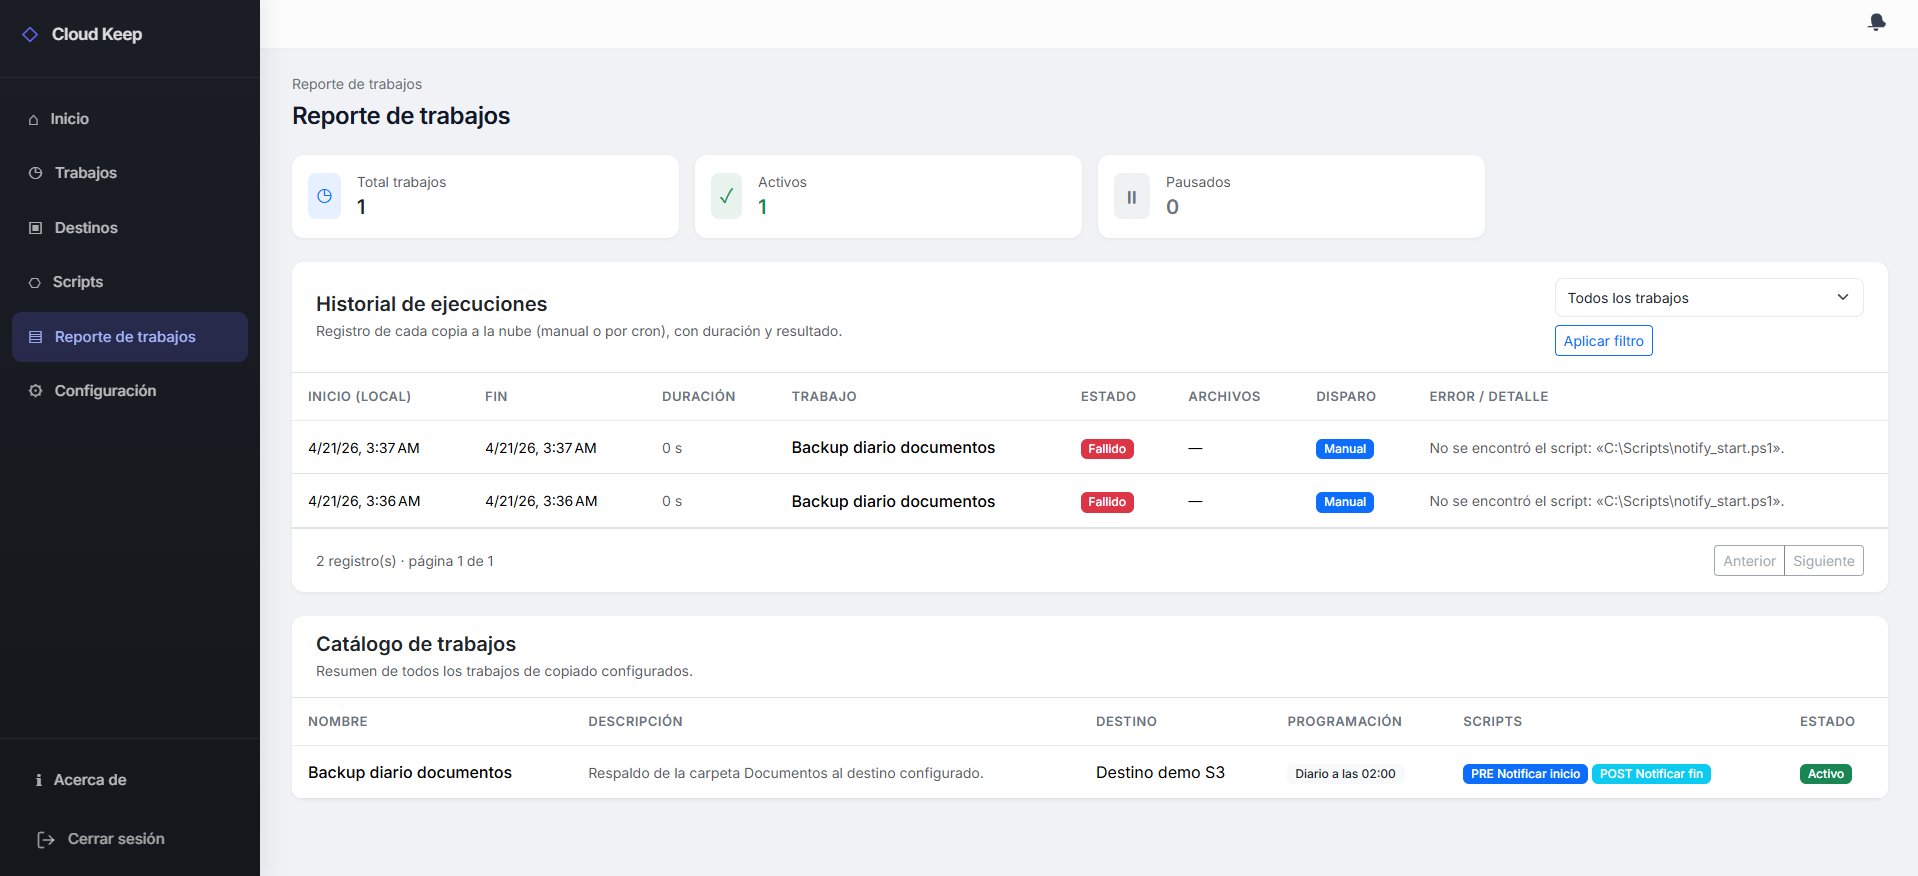
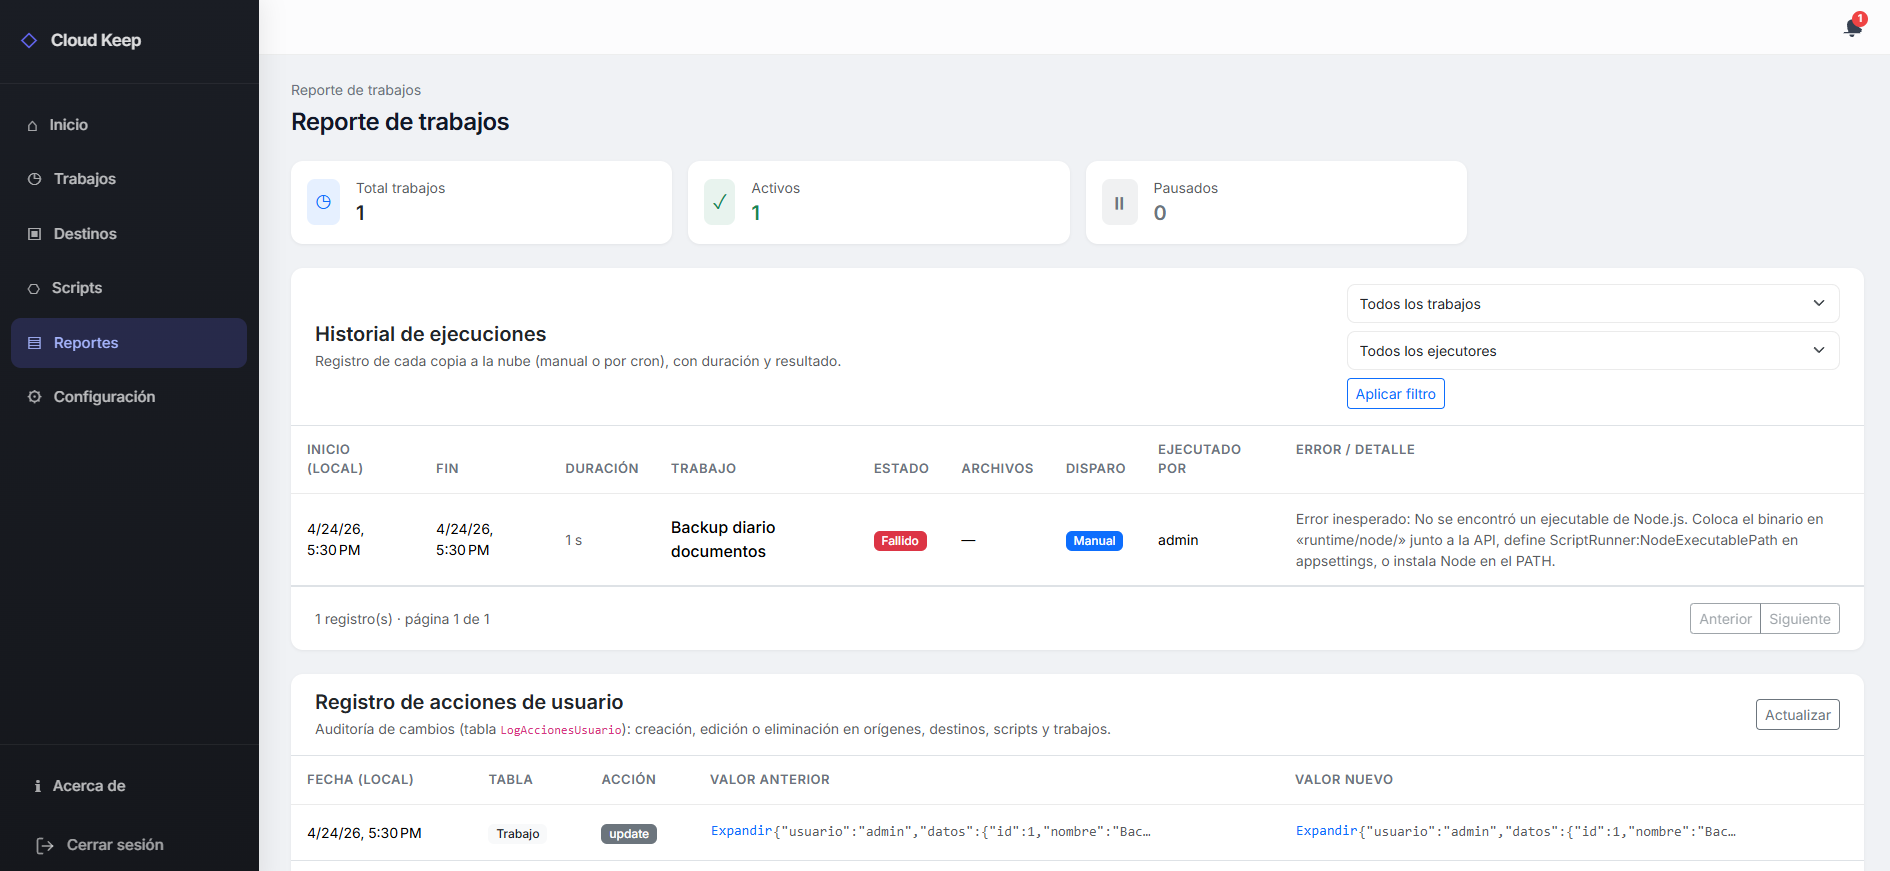
Se amplia el estilo de los erroes en reportes

diff --git a/UI/src/app/pages/reports/job-report/job-report.component.css b/UI/src/app/pages/reports/job-report/job-report.component.css
@@ -17,3 +17,11 @@
   white-space: pre-wrap;
   word-break: break-word;
 }
+
+.error-detail-column {
+  min-width: 24rem;
+  max-width: 42rem;
+  white-space: normal;
+  word-break: break-word;
+  vertical-align: top;
+}

diff --git a/UI/src/app/pages/reports/job-report/job-report.component.html b/UI/src/app/pages/reports/job-report/job-report.component.html
@@ -84,7 +84,7 @@
                 <th>Archivos</th>
                 <th>Disparo</th>
                 <th>Ejecutado por</th>
-                <th>Error / detalle</th>
+                <th class="error-detail-column">Error / detalle</th>
               </tr>
             </thead>
             <tbody>
@@ -104,7 +104,7 @@
                     </span>
                   </td>
                   <td class="small">{{ row.ejecutadoPor || '—' }}</td>
-                  <td class="small text-muted" [title]="row.errorMessage ?? ''">{{ truncarTexto(row.errorMessage, 72) }}</td>
+                  <td class="small text-muted error-detail-column" [title]="row.errorMessage ?? ''">{{ row.errorMessage || '—' }}</td>
                 </tr>
               } @empty {
                 <tr>

diff --git a/API/Services/Services/TrabajoService.cs b/API/Services/Services/TrabajoService.cs
@@ -90,7 +90,11 @@ public class TrabajoService : ITrabajoService
 
         await _context.Entry(entity).Reference(t => t.TrabajosOrigenDestino).LoadAsync();
         await _context.Entry(entity).Reference(t => t.TrabajosScripts).LoadAsync();
-        await _logAcciones.RegistrarAsync(TablasAfectadas.Trabajo, AccionLog.Create, null, SnapshotTrabajo(entity));
+        await _logAcciones.RegistrarAsync(
+            TablasAfectadas.Trabajo,
+            AccionLog.Create,
+            null,
+            await SnapshotTrabajoAsync(entity));
         return MapToResponse(entity);
     }
 
@@ -102,7 +106,7 @@ public class TrabajoService : ITrabajoService
             .FirstOrDefaultAsync(t => t.Id == id);
         if (entity is null) return null;
 
-        var antes = SnapshotTrabajo(entity);
+        var antes = await SnapshotTrabajoAsync(entity);
 
         if (request.Nombre is not null)
         {
@@ -183,7 +187,11 @@ public class TrabajoService : ITrabajoService
 
         entity.FechaModificacion = DateTime.UtcNow;
         await _context.SaveChangesAsync();
-        await _logAcciones.RegistrarAsync(TablasAfectadas.Trabajo, AccionLog.Update, antes, SnapshotTrabajo(entity));
+        await _logAcciones.RegistrarAsync(
+            TablasAfectadas.Trabajo,
+            AccionLog.Update,
+            antes,
+            await SnapshotTrabajoAsync(entity));
         return MapToResponse(entity);
     }
 
@@ -194,17 +202,54 @@ public class TrabajoService : ITrabajoService
             .Include(t => t.TrabajosScripts)
             .FirstOrDefaultAsync(t => t.Id == id);
         if (entity is null) return false;
-        var antes = SnapshotTrabajo(entity);
+        var antes = await SnapshotTrabajoAsync(entity);
         _context.Trabajos.Remove(entity);
         await _context.SaveChangesAsync();
         await _logAcciones.RegistrarAsync(TablasAfectadas.Trabajo, AccionLog.Delete, antes, null);
         return true;
     }
 
-    private static object SnapshotTrabajo(Trabajo t)
+    private async Task<object> SnapshotTrabajoAsync(Trabajo t)
     {
         var p = t.TrabajosOrigenDestino;
         var s = t.TrabajosScripts;
+        var origenId = p?.OrigenId;
+        var destinoId = p?.DestinoId;
+        var scriptPreId = s?.ScriptPreId;
+        var scriptPostId = s?.ScriptPostId;
+
+        var origen = origenId is null
+            ? null
+            : await _context.Origenes
+                .AsNoTracking()
+                .Where(x => x.Id == origenId.Value)
+                .Select(x => new { x.Id, x.Nombre, x.Ruta })
+                .FirstOrDefaultAsync();
+
+        var destino = destinoId is null
+            ? null
+            : await _context.Destinos
+                .AsNoTracking()
+                .Where(x => x.Id == destinoId.Value)
+                .Select(x => new { x.Id, x.Nombre, x.TipoDeDestino, x.CarpetaDestino })
+                .FirstOrDefaultAsync();
+
+        var scriptPre = scriptPreId is null
+            ? null
+            : await _context.ScriptConfigurations
+                .AsNoTracking()
+                .Where(x => x.Id == scriptPreId.Value)
+                .Select(x => new { x.Id, x.Nombre, x.ScriptPath, x.Tipo })
+                .FirstOrDefaultAsync();
+
+        var scriptPost = scriptPostId is null
+            ? null
+            : await _context.ScriptConfigurations
+                .AsNoTracking()
+                .Where(x => x.Id == scriptPostId.Value)
+                .Select(x => new { x.Id, x.Nombre, x.ScriptPath, x.Tipo })
+                .FirstOrDefaultAsync();
+
         return new
         {
             t.Id,
@@ -212,10 +257,14 @@ public class TrabajoService : ITrabajoService
             t.Descripcion,
             t.TrabajosOrigenDestinoId,
             t.TrabajosScriptsId,
-            origenId = p?.OrigenId,
-            destinoId = p?.DestinoId,
-            scriptPreId = s?.ScriptPreId,
-            scriptPostId = s?.ScriptPostId,
+            origenId,
+            destinoId,
+            scriptPreId,
+            scriptPostId,
+            origen,
+            destino,
+            scriptPre,
+            scriptPost,
             preDetenerEnFallo = s?.PreDetenerEnFallo,
             postDetenerEnFallo = s?.PostDetenerEnFallo,
             t.CronExpression,